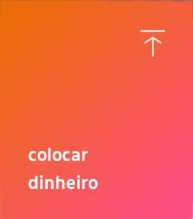
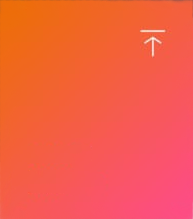
up

Changed region(s): [[0.1244, 0.7945, 0.5285, 0.8767], [0.1244, 0.6575, 0.4663, 0.7397]]

diff --git a/styleIndex.css b/styleIndex.css
@@ -11,7 +11,6 @@ html{
     background-color: aliceblue;
 }
 body{
-    background-color: #2b384b;
     max-width: 720px;
     height: 1520px;
     overflow-x: hidden;
@@ -19,6 +18,8 @@ body{
 header{
     padding: 36px;
     padding-bottom: 0px;
+    background-color: #2b384b;
+
 }
 .containerIcons{
     width: 646px;
@@ -37,11 +38,10 @@ header{
 .containerAvatar{
     width: 646px;
     display: flex;
-    margin-bottom: 48px;
+    padding-bottom: 48px;
     align-items: center;
 
     background-color: var(--colorDebug);
-    padding: 1px;
 }
 .containerAvatar img{
     width: 100px;
@@ -64,8 +64,12 @@ header{
 
 main{
     padding-left: 36px;
+    background-color: #2b384b;
+    border-bottom-left-radius: 60px;
+    padding-bottom: 225px;
 }
-.container1{
+.container1,
+.container2{
     display: flex;
     overflow-x: scroll;
 }
@@ -115,4 +119,80 @@ main{
     color: white;
     display: flex;
     align-items: center;
+}
+
+
+
+.container2{
+    margin-top: 50px;
+    position: absolute;
+    width: 684px;
+}
+.btnColorid{
+    min-width: 193px;
+    height: 219px;
+    background-size: cover;
+    margin-right: 26px;
+    border-radius: 20px;
+    display: flex;
+    flex-direction: column;
+    align-items: flex-start;
+    justify-content: flex-end;
+    padding: 26px;
+    color: white;
+    font-size: 20px;
+}
+.btn1{
+    background-image: url(img/index/btnPix.png);
+}
+.btn2{
+    background-image: url(img/index/btnCartao.png);
+}
+.btn3{
+    background-image: url(img/index/btnPix.png);
+}
+.btn4{
+    background-image: url(img/index/btnColocarDin.png);
+}
+
+
+
+.main2{
+    margin: 0px 36px;
+    color: #666;
+
+}
+.main2 > p{
+    margin: 82px 0px 28px 0px;
+}
+.destaque,
+.mundoIti{
+    background-color: white;
+    display: flex;
+    justify-content: space-between;
+    border-radius: 20px;
+    overflow: hidden;
+    box-shadow: 0px 7px 14px rgb(0 0 0 / 10%);
+
+}
+.containerTextDestaque{
+    padding: 28px;
+    display: flex;
+    flex-direction: column;
+    justify-content: space-between;
+}
+.containerTextDestaque p:nth-child(2){
+    color: black;
+    font-weight: bold;
+}
+.mundoIti{
+    border-radius: 50px 0px 0px 50px;
+    padding: 10px;
+    justify-content: start;
+    align-items: center;
+
+}
+.mundoIti img{
+    border-radius: 50%;
+    margin-right: 20px;
 }

diff --git a/index.html b/index.html
@@ -44,18 +44,51 @@
                 <div class="containerSaldoIti">
                     <div class="containerCoisaEstranha">
                         <div class="coisaEstranha"></div>
-                        <p>saldo iti</p>
+                        <p>outras contas</p>
                     </div>
                     <div class="containerSaldoReal">
-                        <p>R$ 0,00</p>
+                        <p>seus saldos</p>
                     </div>
                 </div>
                 <div class="containerRendimentos">
-                    <p>rendimentos e metas</p>
+                    <p>ver todos os saldos</p>
                 </div>
             </div>
         </div>
 
+        <div class="container2">
+            <div class="btnColorid btn1">
+                <p>colocar</p>
+                <p>dinheiro</p>
+            </div>
+            <div class="btnColorid btn2">
+                <p>cartão da</p>
+                <p>conta</p>
+            </div>
+            <div class="btnColorid btn3">
+                <p>Pix</p>
+            </div>
+            <div class="btnColorid btn4">
+                <p>Pix</p>
+            </div>
+        </div>
+
     </main>
+    <div class="main2">
+        <p>destaque</p>
+        <div class="destaque">
+            <div class="containerTextDestaque">
+                <p>seu saldo rende 100% de CDI e fica disponível para usar quando quiser</p>
+                <p>colocar dinheiro</p>
+            </div>
+            <img src="img/index/dinheiro.png" alt="">
+        </div>
+
+        <p>mundo iti</p>
+        <div class="mundoIti">
+            <img src="img/index/mundoIti.png" alt="">
+            <p>acessar benefícios</p>
+        </div>
+    </div>
 </body>
 </html>
